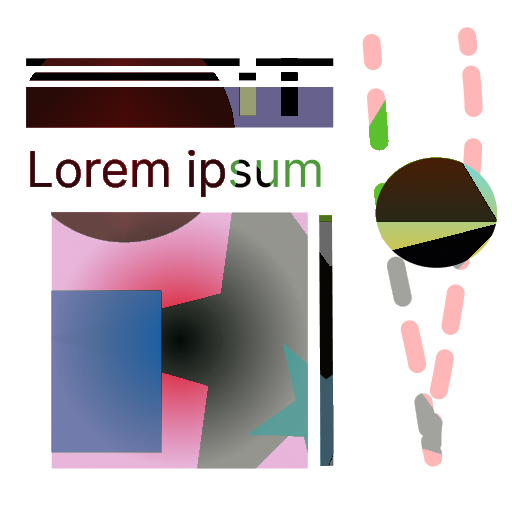
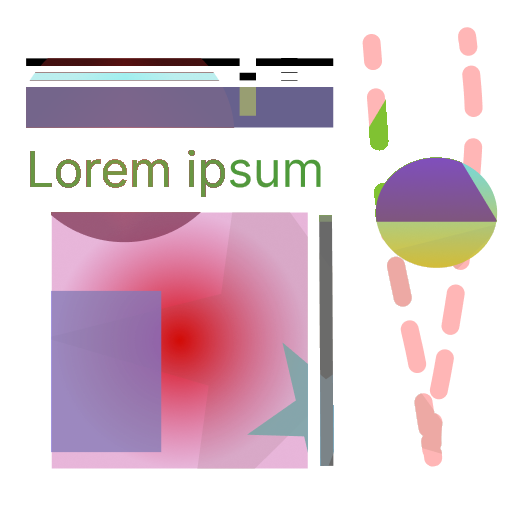
add luminosity and color blend modes

diff --git a/README.md b/README.md
@@ -225,6 +225,14 @@ Foreground (overlay image):
 
 <img src="src/main/resources/result/blend/blend_geometric_mean.png" alt="Color blending with geometric mean algorithm" width="300">
 
+##### Luminosity
+
+<img src="src/main/resources/result/blend/blend_luminosity.png" alt="Color blending with geometric luminosity algorithm" width="300">
+
+##### Color
+
+<img src="src/main/resources/result/blend/blend_color.png" alt="Color blending with geometric color(HSL) algorithm" width="300">
+
 
 ### Binarization
 
